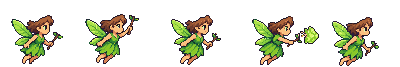
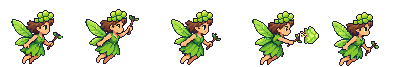
Paint Fern's leaf cap onto her attack frames and clean up Lumen's head swap
Fern's attack sheet was drawn without the cap she wears everywhere else, so fern/fix.js paints one on.
Lumen's swap now lines heads up by the crown and replaces the whole head (and the old chin), then
removes loose specks, instead of pasting over a face found by skin colour, which her hair also matched.

diff --git a/art/heroes/fixes.js b/art/heroes/fixes.js
@@ -1,37 +1,77 @@
 // Shared touch-ups for heroes whose generated sheets disagree on a detail. Used from art/heroes/<id>/fix.js.
 
-// Centre of the face: skin-coloured pixels in the upper half of a frame (hands sit lower or far forward).
-function faceCentre(c, { FW, FH }, isSkin) {
-  let sx = 0, sy = 0, n = 0;
-  for (let y = 0; y < FH / 2; y++) for (let x = 0; x < FW; x++) if (isSkin(c.get(x, y))) { sx += x; sy += y; n++; }
-  return n ? { x: Math.round(sx / n), y: Math.round(sy / n) } : null;
+// Crown of the head. Find the first row wide enough to be the head (a staff ornament or wand is narrower),
+// then climb up from its middle to the topmost row still joined to it. Returns that row and its centre.
+function crown(c, { FW, FH }, headWidth = 16) {
+  const runs = y => { const out = []; let start = -1; for (let x = 0; x <= FW; x++) { const on = x < FW && c.get(x, y)[3]; if (on && start < 0) start = x; if (!on && start >= 0) { out.push([start, x - 1]); start = -1; } } return out; };
+  for (let y = 0; y < FH; y++) {
+    const wide = runs(y).find(([a, b]) => b - a + 1 >= headWidth);
+    if (!wide) continue;
+    let cx = Math.round((wide[0] + wide[1]) / 2), top = y;
+    for (let yy = y - 1; yy >= 0; yy--) {
+      const r = runs(yy).find(([a, b]) => a <= cx + 3 && b >= cx - 3);
+      if (!r) break;
+      top = yy; cx = Math.max(r[0], Math.min(r[1], cx));
+    }
+    const r = runs(top).find(([a, b]) => a <= cx && b >= cx);
+    return { x: Math.round((r[0] + r[1]) / 2), y: top };
+  }
+  return null;
 }
 
-const defaultSkin = p => p[3] && p[0] > 215 && p[1] > 160 && p[2] > 115 && p[0] - p[2] > 45 && p[0] - p[1] < 70;
-
 /**
- * Give every frame in `targets` the head (and hair) of `donor`, lined up by the face. `clear` wipes the
- * old hair behind the head first; `box` is the donor region to copy, relative to its face centre.
+ * Give every frame in `targets` the head (and hair) of `donor`, lined up by the crown. Inside `box`
+ * (relative to the crown) the target's old head is wiped and the donor's pasted whole, so no old face or
+ * hair pokes out; under the face it reaches down to `chin` so an old chin can't hang below the new one.
+ * In `tail` (long hair hanging down the back) donor hair is only laid on top. Loose specks of fewer than
+ * `speck` pixels left around the head afterwards are removed.
+ * `skip(x, y)` keeps target pixels that sit in the box but aren't head, such as a hand on a staff.
  */
 function swapHead(targets, donor, helpers, {
-  box = { left: 19, right: 5, up: 15, down: 8 },
-  clear = { behind: 8, up: 13, down: 6 },
-  isSkin = defaultSkin,
+  box = { left: 16, right: 10, up: 1, down: 13, chin: 17 },
+  tail = { left: 16, right: -4, down: 19 },
+  isHair = () => true,
+  skip = () => false,
+  speck = 6,
 } = {}) {
   const { FW, FH } = helpers;
-  const d = faceCentre(donor, helpers, isSkin);
+  const d = crown(donor, helpers);
   if (!d) return;
   for (const c of targets) {
-    const f = faceCentre(c, helpers, isSkin);
-    if (!f) continue;
-    for (let y = f.y - clear.up; y <= f.y + clear.down; y++) for (let x = 0; x < f.x - clear.behind; x++) c.set(x, y, [0, 0, 0], 0);
-    for (let y = d.y - box.up; y <= d.y + box.down; y++) for (let x = d.x - box.left; x <= d.x + box.right; x++) {
+    const t = crown(c, helpers);
+    if (!t) continue;
+    const put = (x, y, p) => { const tx = x - d.x + t.x, ty = y - d.y + t.y; if (tx >= 0 && ty >= 0 && tx < FW && ty < FH) c.set(tx, ty, p.slice(0, 3)); };
+    const inBox = (dx, dy) => dx >= -box.left && dx <= box.right && dy >= -box.up && (dy <= box.down || (dx >= 0 && dx <= 7 && dy <= box.chin));
+    for (let y = t.y - box.up; y <= t.y + box.chin; y++) for (let x = t.x - box.left; x <= t.x + box.right; x++)
+      if (inBox(x - t.x, y - t.y) && !skip(x - t.x, y - t.y, c.get(x, y))) c.set(x, y, [0, 0, 0], 0);
+    for (let y = d.y - box.up; y <= d.y + tail.down; y++) for (let x = d.x - box.left; x <= d.x + box.right; x++) {
       const p = donor.get(x, y);
       if (!p[3]) continue;
-      const tx = x - d.x + f.x, ty = y - d.y + f.y;
-      if (tx >= 0 && ty >= 0 && tx < FW && ty < FH) c.set(tx, ty, p.slice(0, 3));
+      if (inBox(x - d.x, y - d.y)) put(x, y, p);
+      else if (x - d.x <= tail.right && x - d.x >= -tail.left && isHair(p)) put(x, y, p);
     }
+    clearSpecks(c, helpers, speck, [t.x - box.left - 4, t.y - box.up - 4, t.x + box.right + 4, t.y + tail.down + 2]);
   }
 }
 
-module.exports = { swapHead, faceCentre };
+// Delete 8-connected bits of fewer than `min` pixels that lie entirely inside the [x0, y0, x1, y1] area.
+function clearSpecks(c, { FW, FH }, min, [x0, y0, x1, y1]) {
+  const seen = new Set();
+  for (let y = Math.max(0, y0); y <= Math.min(FH - 1, y1); y++) for (let x = Math.max(0, x0); x <= Math.min(FW - 1, x1); x++) {
+    if (!c.get(x, y)[3] || seen.has(y * FW + x)) continue;
+    const blob = [], stack = [[x, y]];
+    seen.add(y * FW + x);
+    while (stack.length && blob.length < min) {
+      const [px, py] = stack.pop();
+      blob.push([px, py]);
+      for (let a = -1; a <= 1; a++) for (let b = -1; b <= 1; b++) {
+        const nx = px + a, ny = py + b;
+        if (nx < 0 || ny < 0 || nx >= FW || ny >= FH || seen.has(ny * FW + nx) || !c.get(nx, ny)[3]) continue;
+        seen.add(ny * FW + nx); stack.push([nx, ny]);
+      }
+    }
+    if (blob.length < min && blob.every(([px, py]) => px >= x0 && px <= x1 && py >= y0 && py <= y1)) for (const [px, py] of blob) c.set(px, py, [0, 0, 0], 0);
+  }
+}
+
+module.exports = { swapHead, crown };

diff --git a/art/heroes/fern/fix.js b/art/heroes/fern/fix.js
@@ -1,0 +1,45 @@
+// Fern's attack sheet came out without the leaf cap she wears in her run sheet and portrait. Paint one on:
+// overlapping leaves over the crown and down to the brow, in the cap's own greens.
+const OUT = [30, 22, 40];
+const GREENS = [[217, 247, 106], [200, 222, 40], [138, 200, 40], [111, 182, 50], [80, 157, 53], [49, 129, 52]];
+const VEIN = [26, 92, 54];
+const isHair = p => p[3] && p[0] > p[1] && p[1] > p[2] && p[0] - p[2] > 40 && p[0] + p[1] + p[2] >= 150;
+
+// Leaf centres relative to the cap's centre: a crown row and a lower row that hangs over the hair.
+const LEAVES = [[-6, -4, 3.4], [-1, -6, 3.4], [4, -4, 3.2], [-10, 1, 3], [-5, 0, 3.2], [0, -1, 3.2], [5, 0, 2.8]];
+
+module.exports = function fix(frames, { FW }) {
+  for (const f of frames.attack) {
+    // Rows of the head: at least 3 hair pixels side by side (the wand is thinner than that).
+    const span = y => { let best = null, run = 0; for (let x = 0; x < FW; x++) { run = isHair(f.get(x, y)) ? run + 1 : 0; if (run >= 3) best = x; } return best; };
+    let top = -1;
+    for (let y = 0; y < 50 && top < 0; y++) if (span(y) !== null) top = y;
+    if (top < 0) continue;
+    let front = 0;
+    for (let y = top; y < top + 5; y++) front = Math.max(front, span(y) ?? 0);
+    const cx = front - 6, cy = top + 3;
+
+    const owner = new Map(); // pixel -> index of the leaf it belongs to
+    for (let y = cy - 10; y <= cy + 5; y++) for (let x = cx - 14; x <= cx + 9; x++) {
+      const dx = x - cx, dy = y - cy;
+      const rim = dx > 2 ? 0 : dx > -4 ? 2 : 4; // the cap's lower edge: up off the brow, down over the back
+      if (dy > rim) continue;
+      let bi = -1, bd = 1;
+      LEAVES.forEach(([lx, ly, r], i) => { const d = ((dx - lx) ** 2 + (dy - ly) ** 2) / (r * r); if (d < bd) { bd = d; bi = i; } });
+      if (bi >= 0) owner.set(`${x},${y}`, bi);
+    }
+    for (const [k, i] of owner) {
+      const [x, y] = k.split(',').map(Number);
+      const nb = [[1, 0], [-1, 0], [0, 1], [0, -1]].map(([a, b]) => owner.get(`${x + a},${y + b}`));
+      let col;
+      if (nb.some(n => n === undefined)) col = OUT;
+      else if (nb.some(n => n !== i && LEAVES[n][1] < LEAVES[i][1])) col = VEIN; // a leaf's top edge where it overlaps the one behind
+      else {
+        const [lx, ly] = LEAVES[i];
+        const t = y - cy - ly + 0.4 * (x - cx - lx); // lit from the upper left
+        col = GREENS[Math.max(0, Math.min(5, Math.round(1 + t / 1.8 + (ly > -2 ? 0.7 : 0))))];
+      }
+      f.set(x, y, col);
+    }
+  }
+};

diff --git a/src/heroAnims.ts b/src/heroAnims.ts
@@ -18,7 +18,7 @@ export const HERO_ANIMS: Record<string, HeroAnim> = {
   brook: { frame: [63,54], feet: [24,53], headTop: 2, run: 5, attack: 5, hitFrame: 3 },
   cinder: { frame: [76,59], feet: [27,58], headTop: 7, run: 5, attack: 5, hitFrame: 2 },
   ember: { frame: [61,64], feet: [30,63], headTop: 14, run: 5, attack: 5, hitFrame: 2 },
-  fern: { frame: [80,67], feet: [36,66], headTop: 15, run: 5, attack: 5, hitFrame: 3 },
+  fern: { frame: [80,67], feet: [36,66], headTop: 10, run: 5, attack: 5, hitFrame: 3 },
   flint: { frame: [86,68], feet: [47,67], headTop: 17, run: 5, attack: 5, hitFrame: 2 },
   lumen: { frame: [71,65], feet: [40,64], headTop: 14, run: 5, attack: 5, hitFrame: 2 },
   marina: { frame: [73,54], feet: [36,53], headTop: 2, run: 5, attack: 5, hitFrame: 3 },

diff --git a/art/heroes/lumen/fix.js b/art/heroes/lumen/fix.js
@@ -1,8 +1,8 @@
-// Lumen's two sheets disagree on her hair: the attack sheet gave her a ponytail, the run sheet (and her
-// reference art) long flowing hair. Every attack frame gets the last run frame's long-hair head (the
-// cleanest match of the five), lined up by her face (see fixes.js).
 const { swapHead } = require('../fixes');
 
+// Lumen's attack sheet drew her hair differently from her run sheet; give the attack frames the run head.
 module.exports = function fix(frames, helpers) {
-  swapHead(frames.attack, frames.run[frames.run.length - 1], helpers);
+  swapHead(frames.attack, frames.run[frames.run.length - 1], helpers, {
+    isHair: p => p[0] > p[1] && p[1] > p[2] && p[0] - p[2] > 60, // golden hair, not the white robe
+  });
 };
